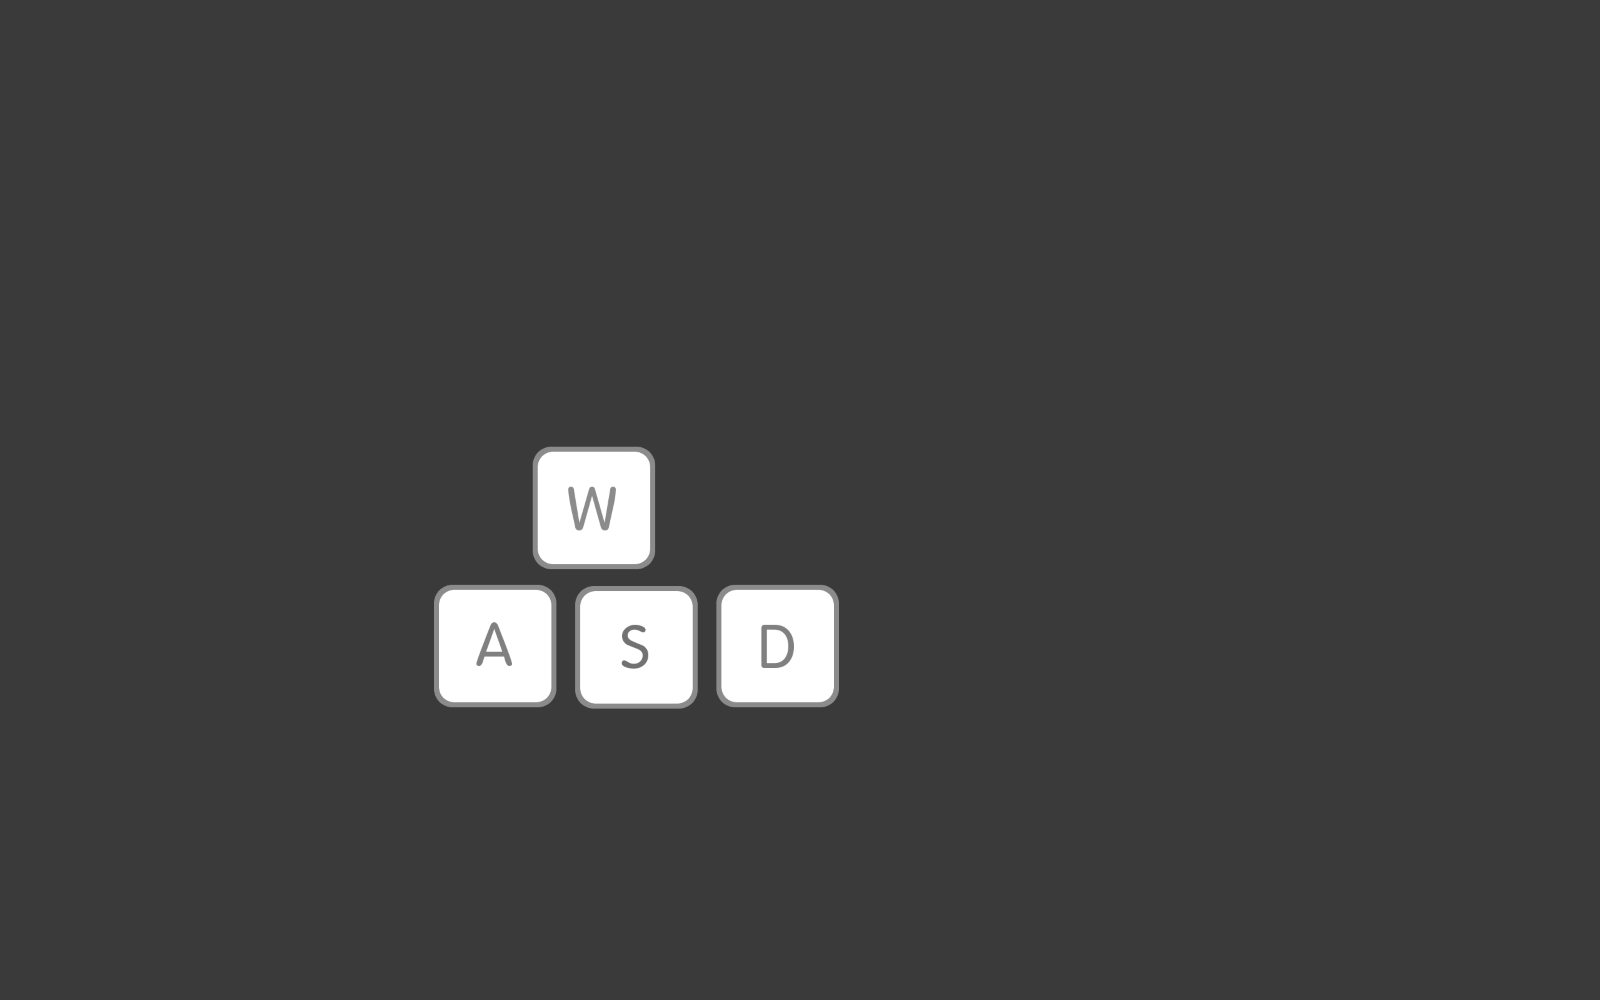
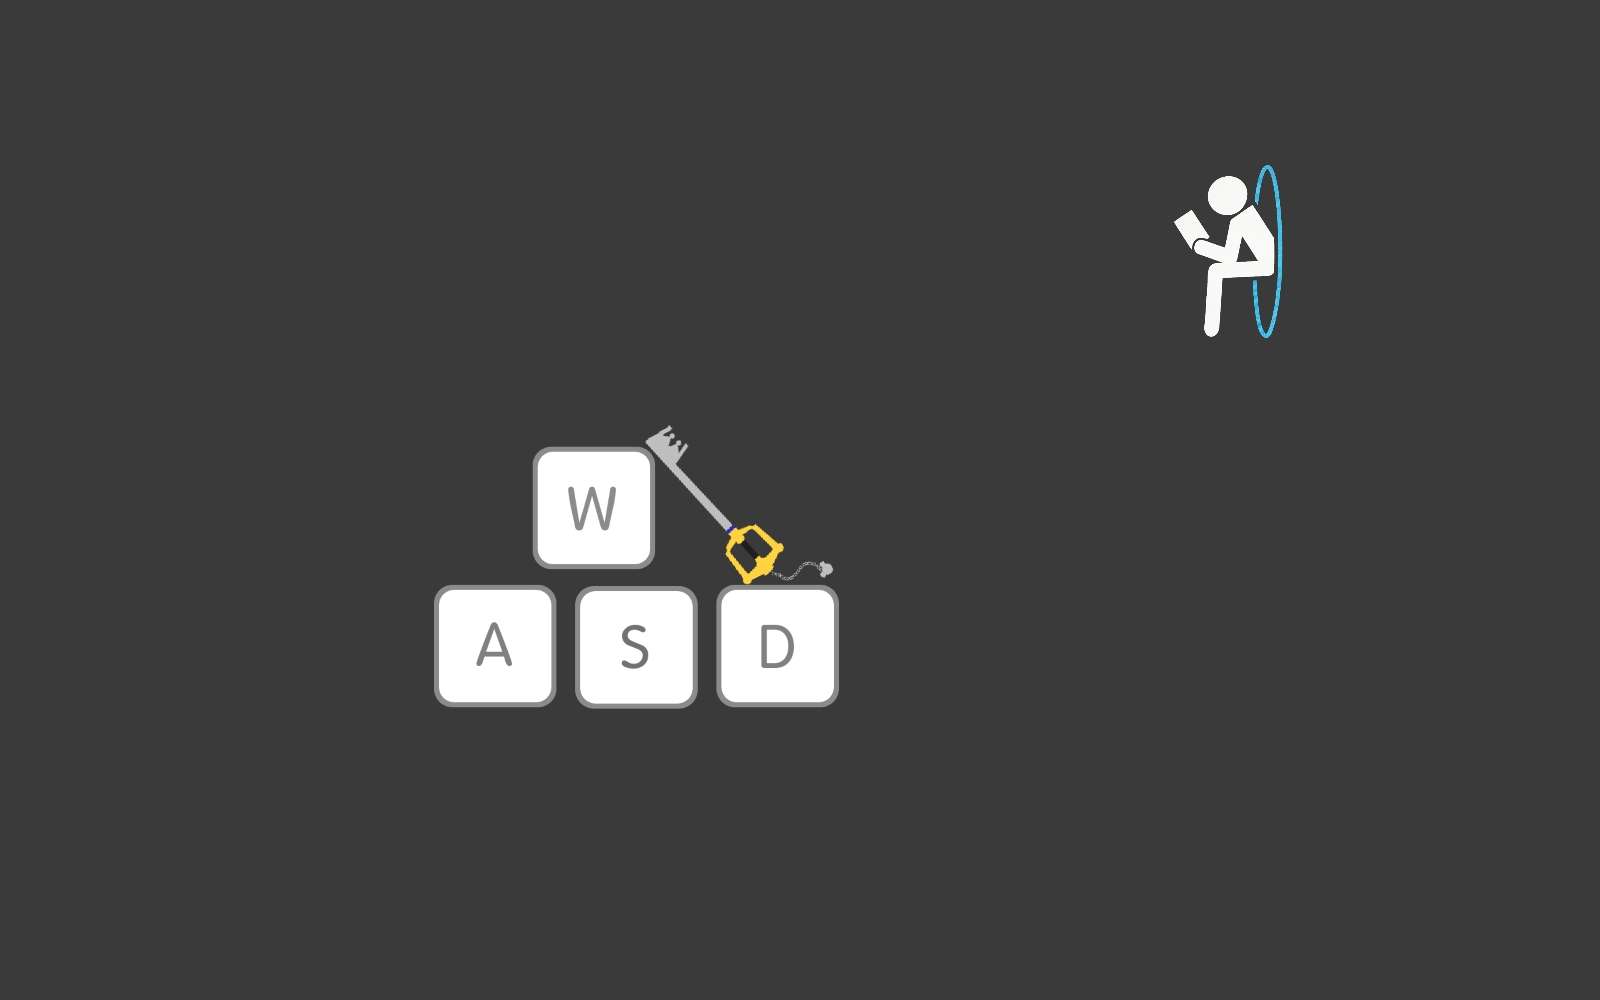
more edits
more changes; more information; added pictures

Changed region(s): [[0.7188, 0.155, 0.8125, 0.341], [0.4375, 0.496, 0.5312, 0.589], [0.4062, 0.434, 0.4375, 0.496]]

diff --git a/index.html b/index.html
@@ -11,12 +11,13 @@
 	<script src="js/modernizr.js"></script> <!-- Modernizr -->
 </head>
 <body>
-	<title>2 Blocks Template | CodyHouse</title>
+	<title> Systematic Digital Profile </title>
 	<main>
 		<div class="cd-image-block">
 			<ul class="cd-images-list">
 				<li class="is-selected">
 					<a href="#0">
+						<h2> IGN ; Systemtwo </h2>
 					</a>
 				</li>
 
@@ -32,36 +33,47 @@
 			<ul>
 				<li class="is-selected">
 					<div>
-						<h2>Lorem ipsum dolor sit amet, consectetur adipisicing elit. Facere, illo!</h2>
+						<h2> Game and Gamer </h2>
 						
 						<p>
-							Lorem ipsum dolor sit amet, consectetur adipisicing elit. Quasi cum quisquam, libero molestiae cupiditate, omnis? Provident excepturi, nobis cupiditate, nulla dolorem dignissimos error necessitatibus, sint praesentium dolores, harum! Aliquam sequi impedit corrupti, numquam maiores ipsa commodi excepturi eligendi cupiditate adipisci atque sint iste aspernatur, hic sed modi at voluptatum nihil incidunt, fugiat repellendus beatae debitis, soluta blanditiis culpa! Magnam quisquam tempore exercitationem molestias cupiditate quam aut eum perferendis deleniti doloribus et quos dolore excepturi, rem incidunt consectetur quia accusantium placeat quae officiis in ab. Veniam sapiente aut est asperiores nihil reprehenderit incidunt cupiditate, voluptatibus nemo iste. Quos, ullam. Cupiditate, sed.
+							<h4> Who am I? </h4> 	A gamer; I run by "Systemtwo" typically in the games I play.
 						</p>
 						
 						<p>
-							Lorem ipsum dolor sit amet, consectetur adipisicing elit. Quasi cum quisquam, libero molestiae cupiditate, omnis? Provident excepturi, nobis cupiditate, nulla dolorem dignissimos error necessitatibus, sint praesentium dolores, harum! Aliquam sequi impedit corrupti, numquam maiores ipsa commodi excepturi eligendi cupiditate adipisci atque sint iste aspernatur, hic sed modi at voluptatum nihil incidunt, fugiat repellendus beatae debitis, soluta blanditiis culpa! Magnam quisquam tempore exercitationem molestias cupiditate quam aut eum perferendis deleniti doloribus et quos dolore excepturi, rem incidunt consectetur quia accusantium placeat quae officiis in ab. Veniam sapiente aut est asperiores nihil reprehenderit incidunt cupiditate, voluptatibus nemo iste. Quos, ullam. Cupiditate, sed.
+							I play a variety of games; different genres, from first person shooters to real time strategies. I am often very invested into the games I play; wanting to understand design choices as they are perceived by players,
+							and how they were intended by designers. Outside of the game; I follow games and their communities closely, wanting to understand the player interaction, public perception and above all the developer response in kind.
 						</p>
 						
 						<p>
-							Lorem ipsum dolor sit amet, consectetur adipisicing elit. Quasi cum quisquam, libero molestiae cupiditate, omnis? Provident excepturi, nobis cupiditate, nulla dolorem dignissimos error necessitatibus, sint praesentium dolores, harum! Aliquam sequi impedit corrupti, numquam maiores ipsa commodi excepturi eligendi cupiditate adipisci atque sint iste aspernatur, hic sed modi at voluptatum nihil incidunt, fugiat repellendus beatae debitis, soluta blanditiis culpa! Magnam quisquam tempore exercitationem molestias cupiditate quam aut eum perferendis deleniti doloribus et quos dolore excepturi, rem incidunt consectetur quia accusantium placeat quae officiis in ab. Veniam sapiente aut est asperiores nihil reprehenderit incidunt cupiditate, voluptatibus nemo iste. Quos, ullam. Cupiditate, sed.
+							I have been known to get very involved in online communities; often rising to organisational or moderation roles within the community. Often I gain these positions by making myself known within the respective communities
+							where I have met some amazing people from across the world who share this interest in video games. Meeting fellow players and interacting both online and offline has become to me the foundation of many lasting friendships
+							; highlighting what I believe as one of the most prevalent social networks on the internet; even more so than Facebook. Community structures that form spontaneously; such as through reddit, or organisationally; 
+							through in-game means will always be a driving factor behind player motivations. Because no-one like to play games on their own.
 						</p>
+						
 					</div> 
 				</li>
 
 				<li>
 					<div>
-						<h2>Lorem ipsum dolor sit amet, consectetur.</h2>
+						<h2> Work and Community </h2>
 						
 						<p>
-							Lorem ipsum dolor sit amet, consectetur adipisicing elit. Quasi cum quisquam, libero molestiae cupiditate, omnis? Provident excepturi, nobis cupiditate, nulla dolorem dignissimos error necessitatibus, sint praesentium dolores, harum! Aliquam sequi impedit corrupti, numquam maiores ipsa commodi excepturi eligendi cupiditate adipisci atque sint iste aspernatur, hic sed modi at voluptatum nihil incidunt, fugiat repellendus beatae debitis, soluta blanditiis culpa! Magnam quisquam tempore exercitationem molestias cupiditate quam aut eum perferendis deleniti doloribus et quos dolore excepturi, rem incidunt consectetur quia accusantium placeat quae officiis in ab. Veniam sapiente aut est asperiores nihil reprehenderit incidunt cupiditate, voluptatibus nemo iste. Quos, ullam. Cupiditate, sed.
+							Through playing games; I have been able to involve myself with organisations and Communities; creating events and managing communications.
 						</p>
 						
 						<p>
-							Lorem ipsum dolor sit amet, consectetur adipisicing elit. Quasi cum quisquam, libero molestiae cupiditate, omnis? Provident excepturi, nobis cupiditate, nulla dolorem dignissimos error necessitatibus, sint praesentium dolores, harum! Aliquam sequi impedit corrupti, numquam maiores ipsa commodi excepturi eligendi cupiditate adipisci atque sint iste aspernatur, hic sed modi at voluptatum nihil incidunt, fugiat repellendus beatae debitis, soluta blanditiis culpa! Magnam quisquam tempore exercitationem molestias cupiditate quam aut eum perferendis deleniti doloribus et quos dolore excepturi, rem incidunt consectetur quia accusantium placeat quae officiis in ab. Veniam sapiente aut est asperiores nihil reprehenderit incidunt cupiditate, voluptatibus nemo iste. Quos, ullam. Cupiditate, sed.
+							" <a href="http://planetsidebattles.org/" >Planetside Battles</a> "; A Third Party affiliate of Daybreak Games (formerly Sony Online Entertainment) involved in thier FPS MMO Planetside 2. Planetside 2 is and Open-world MMO FPS based on "continents' that span
+							equivalents to 8km by 8km across 3 warring factions.My role in PlanetSide Battles is as a Server Representative
+							for the Briggs (AU) server. This was an elected role; voted on by the 'outfits' of the server, commonly guilds in other MMOs. My responsibilities involve the communication of public server opinion, and the 
+							organisation of community and tournament events. These events are typically called "Serversmashes". These events consist of the creation of server teams of players up to 244 players, and the creation of a command structure
+							These teams would then be pitted against each other on tournament servers; with requisite accounts; organised by Server Representatives. 
+							
 						</p>
 						
 						<p>
-							Lorem ipsum dolor sit amet, consectetur adipisicing elit. Quasi cum quisquam, libero molestiae cupiditate, omnis? Provident excepturi, nobis cupiditate, nulla dolorem dignissimos error necessitatibus, sint praesentium dolores, harum! Aliquam sequi impedit corrupti, numquam maiores ipsa commodi excepturi eligendi cupiditate adipisci atque sint iste aspernatur, hic sed modi at voluptatum nihil incidunt, fugiat repellendus beatae debitis, soluta blanditiis culpa! Magnam quisquam tempore exercitationem molestias cupiditate quam aut eum perferendis deleniti doloribus et quos dolore excepturi, rem incidunt consectetur quia accusantium placeat quae officiis in ab. Veniam sapiente aut est asperiores nihil reprehenderit incidunt cupiditate, voluptatibus nemo iste. Quos, ullam. Cupiditate, sed.
+							Community Management; Throughout University and into Video Games, I have always been active and as such have often led to management and community roles; either designated by current administrators
+							or voted on by the majority of the community. This has also led me to partake in management roles for events such as Exhibitions and Conventions and far-reaching collaborations with other organisations.
 						</p>
 					</div> 
 				</li>
@@ -71,7 +83,7 @@
 		</div> <!-- .cd-content-block -->
 
 		<ul class="block-navigation">
-			<li><button class="cd-prev inactive"> Me; Adam </button></li>
+			<li><button class="cd-prev inactive"> Me </button></li>
 			<li><button class="cd-next"> Work and Experience </button></li>
 		</ul> <!-- .block-navigation -->
 	</main>	<!-- .cd-main -->

diff --git a/js/main.js b/js/main.js
@@ -105,12 +105,4 @@ jQuery(document).ready(function($){
 		return window.getComputedStyle(imageWrapper.get(0), '::before').getPropertyValue('content').replace(/'/g, "").replace(/"/g, "").split(', ');
 	}
 
-	
-	$('.gamelogo').mouseover(function() {
-			$(this).stop().animate({height: '+=20px'}, 500);
-		});
-	
-	$('.gamelogo').mouseout(function() {
-			$(this).stop().animate({height: '-=20px'}, 500);
-		});
 });
